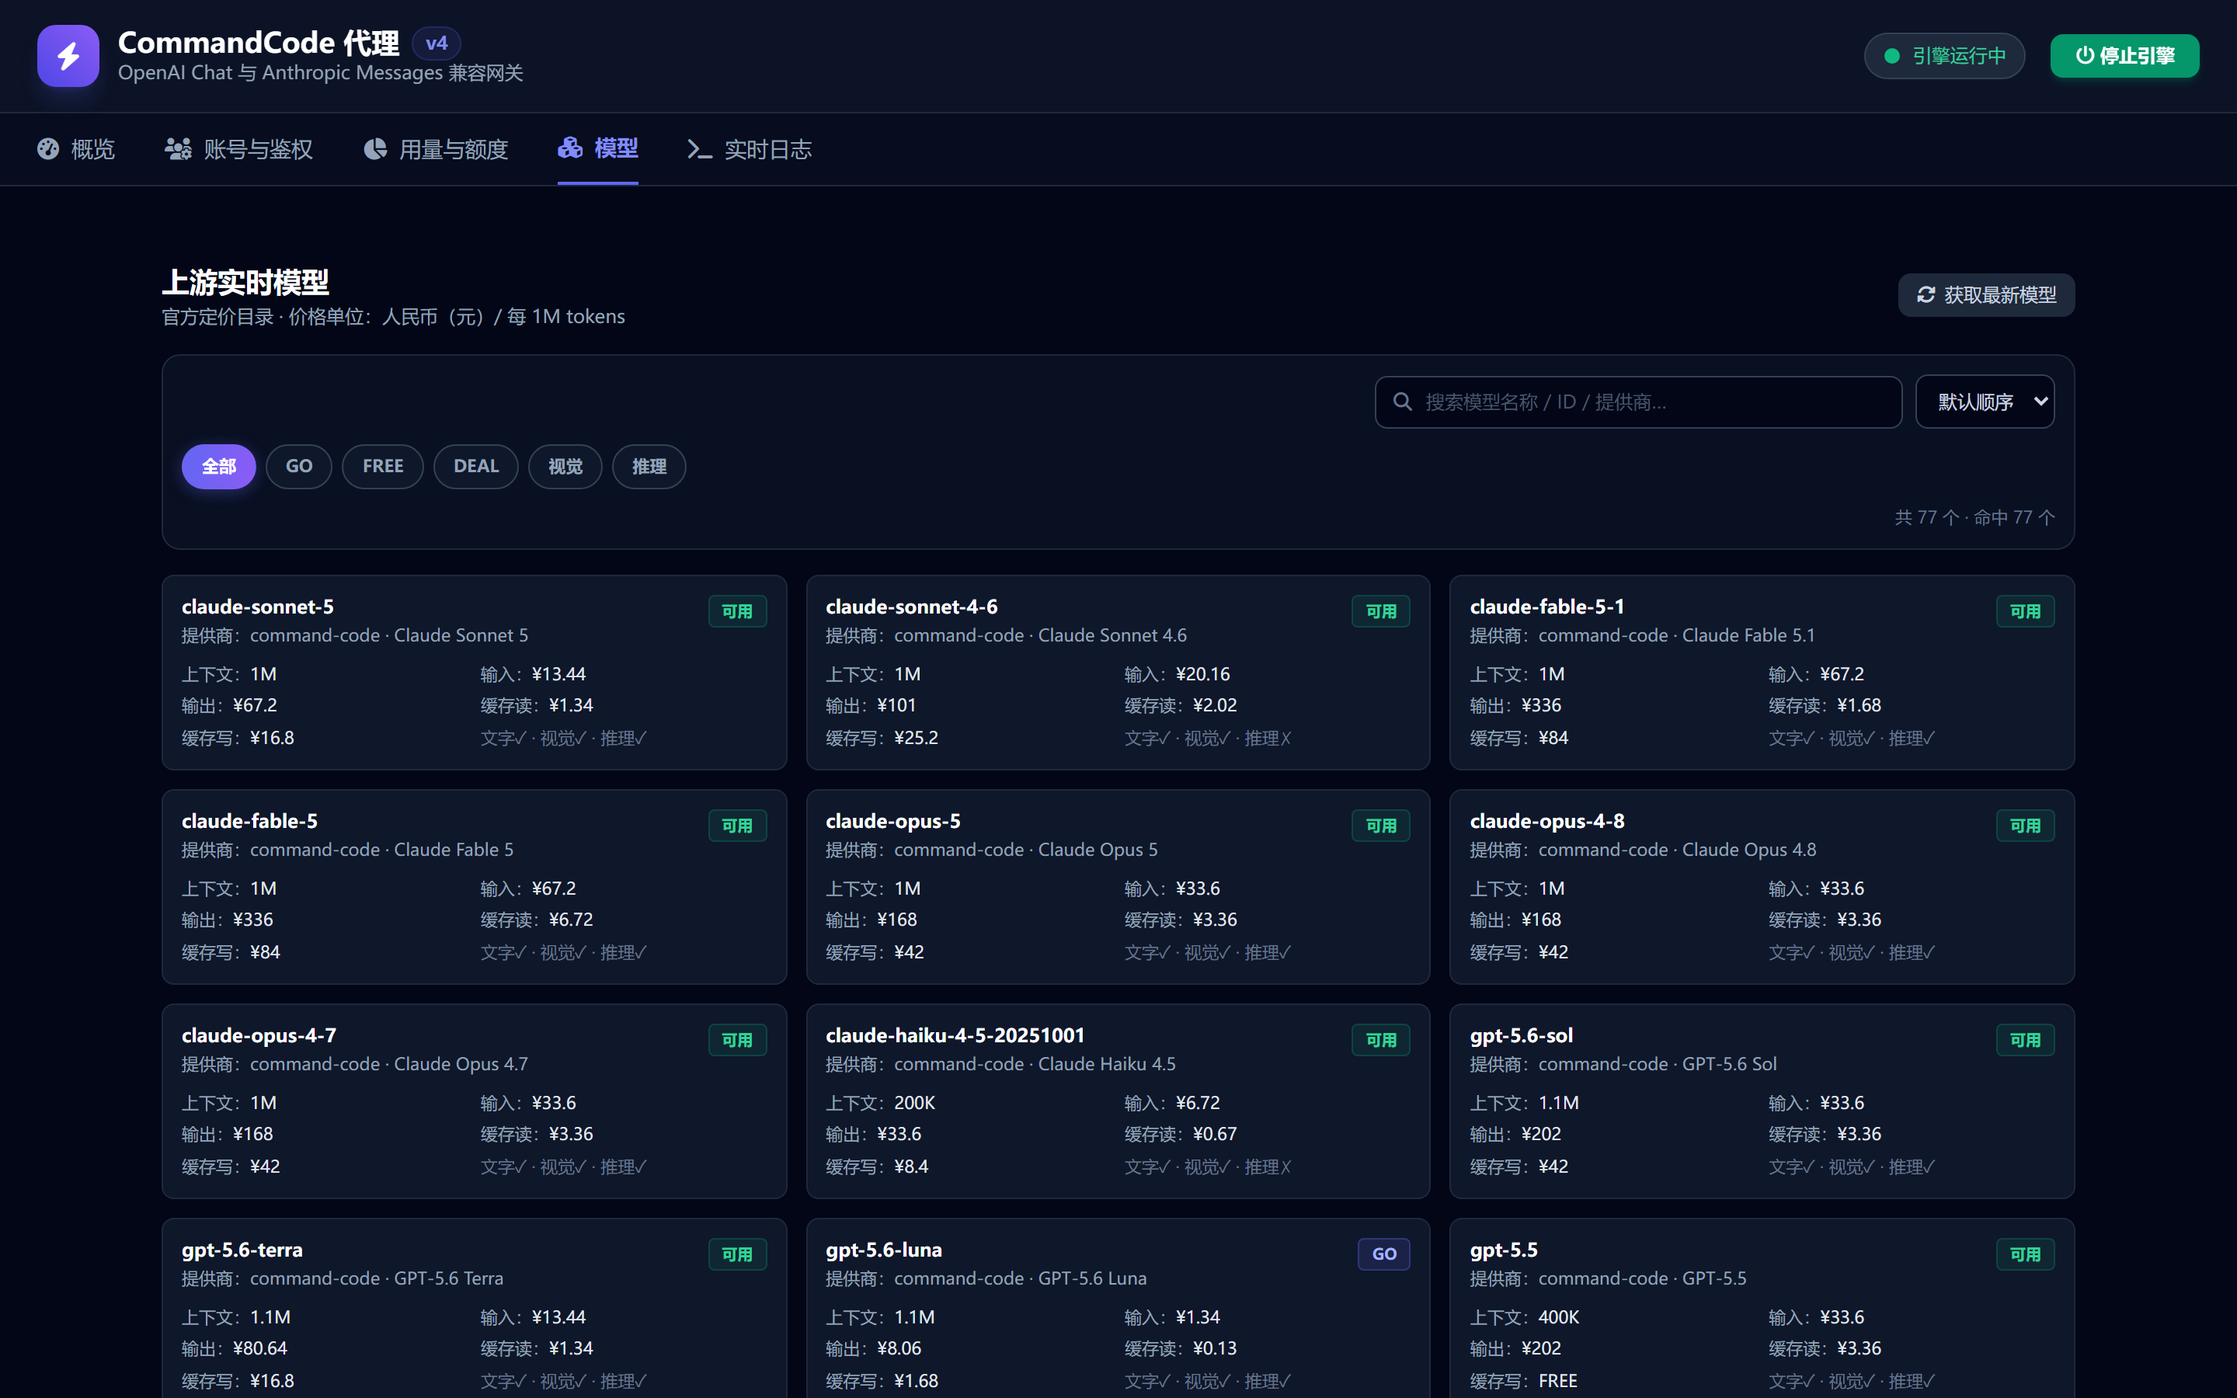
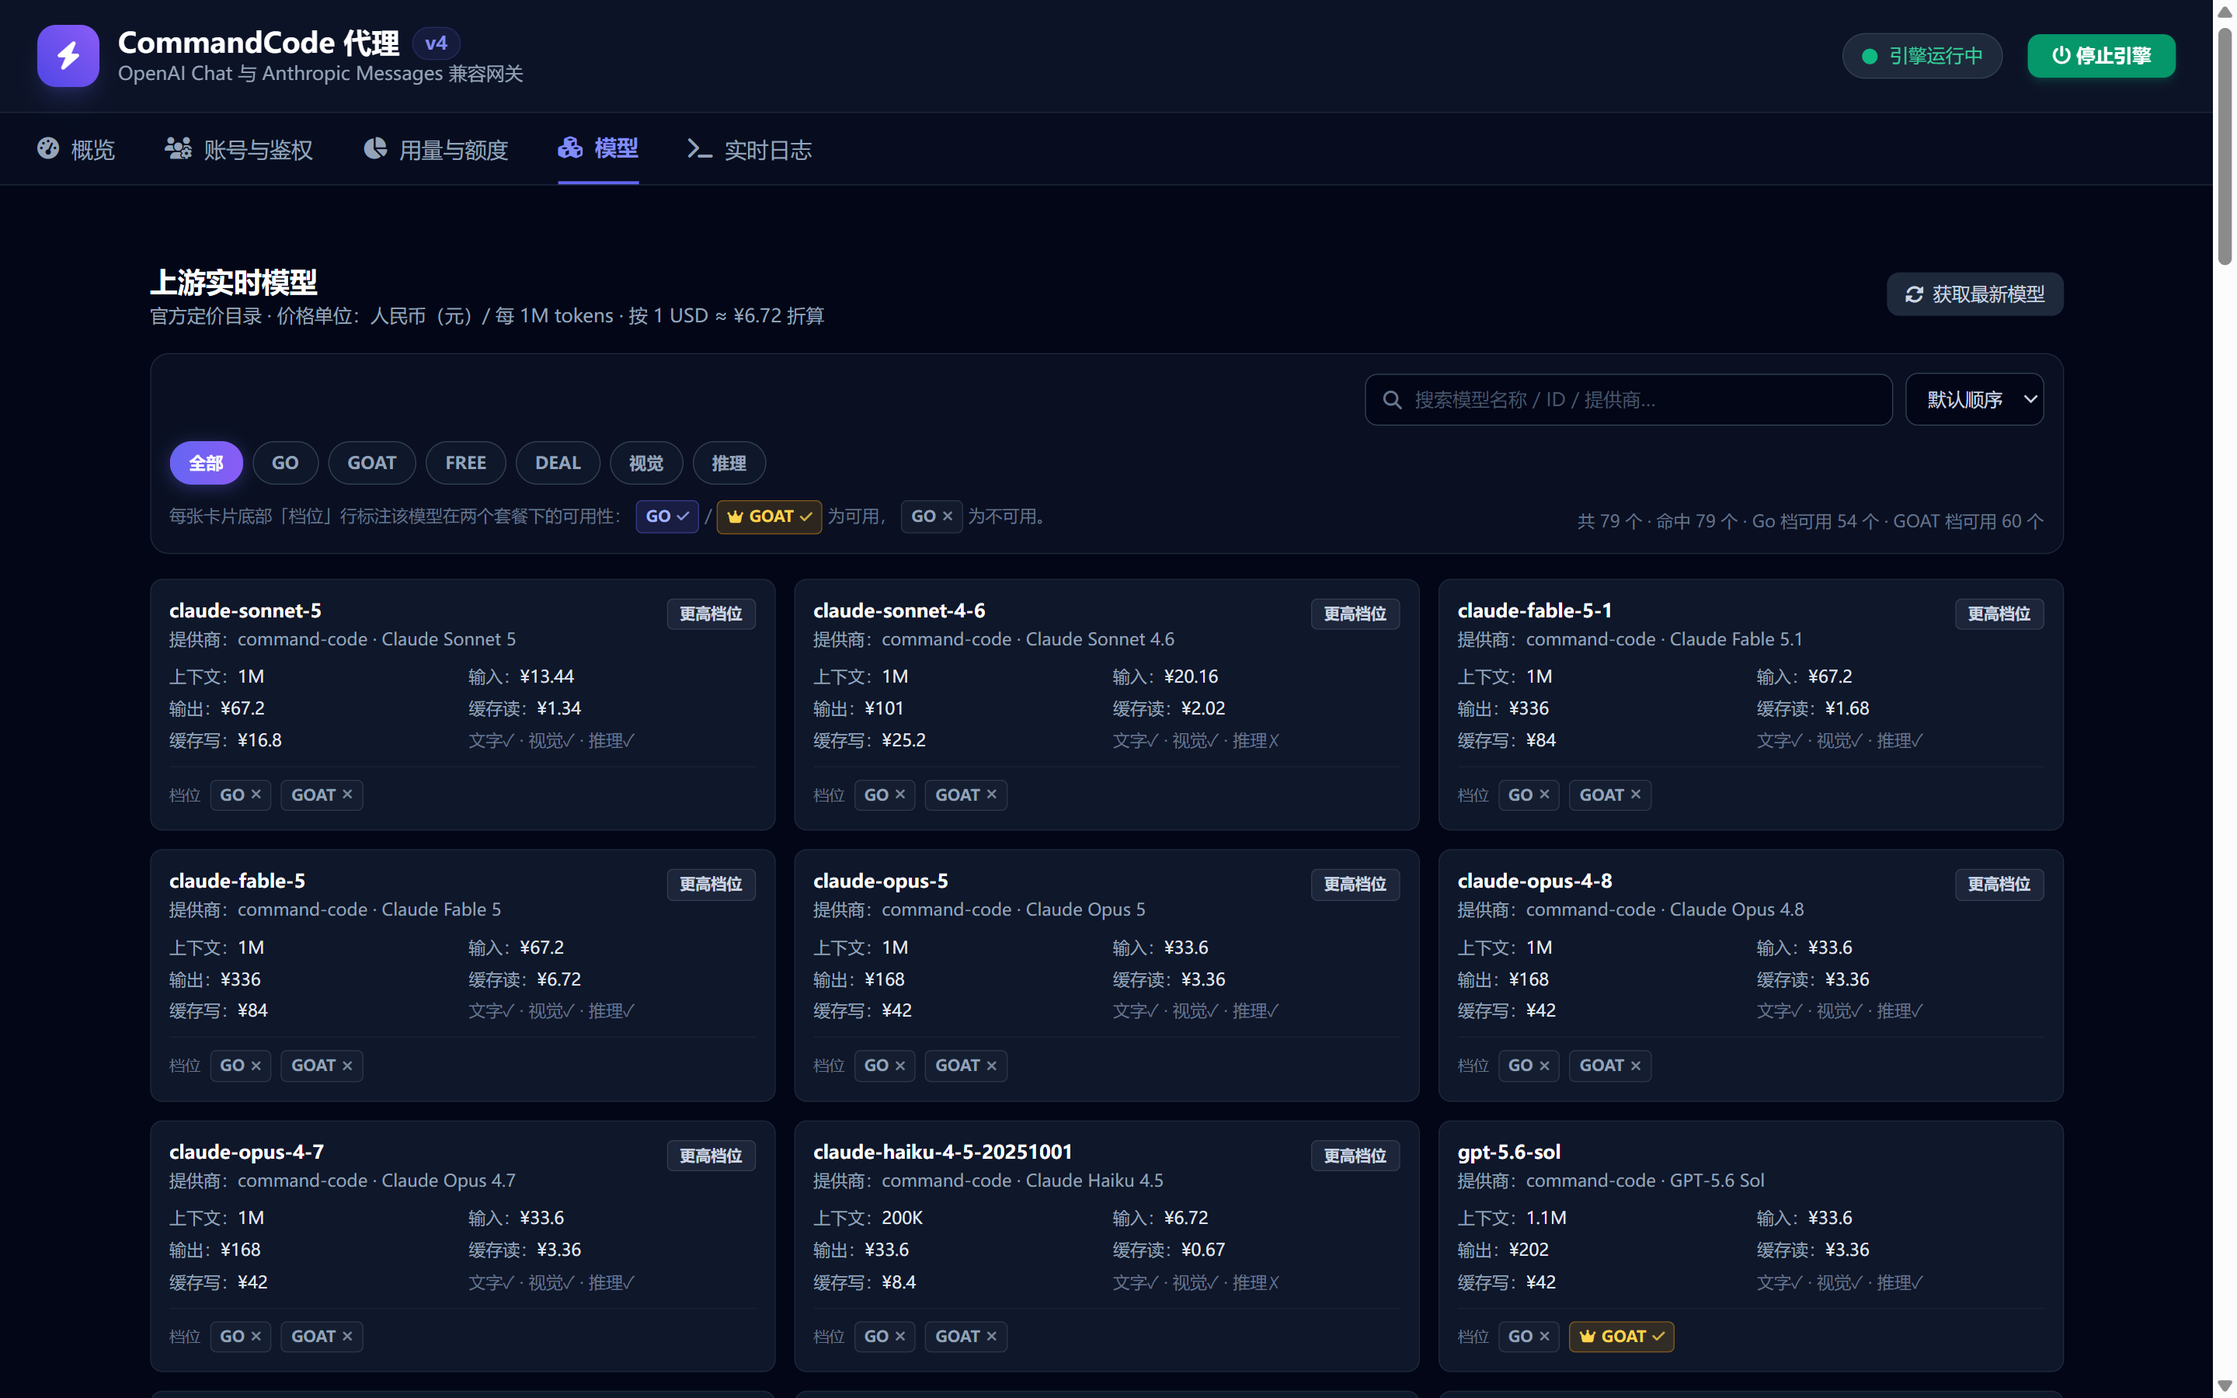
feat(ui): 模型卡片分开标注 Go / GOAT 档位可用性
卡片头部此前只看压扁的 onGoPlan（= availability['individual-go']），
GOAT 独有的 6 个模型（gpt-5.6-sol、xai/grok-4.6、google/gemini-3.7-flash、
google/gemini-3.8-flash、meta/muse-spark-1.2/1.3）与其它模型一样只显示
中性的「可用」，无法区分。

- 每张卡片底部新增「档位」行：GO / GOAT 两枚药丸始终占位，可用为实心
  强调色 + ✓（GO 靛蓝、GOAT 金色带皇冠），不可用为灰底 + ✗；固定占位
  让卡片等高、整列对齐，便于纵向比较。
- 判定改读完整 availability（新增 isPlanOn），仅在整表缺失时回退 onGoPlan。
- 两档都不含的 19 个模型改标「更高档位」，悬停给出实际可用档位清单。
- 筛选条新增 GOAT 标签；计数扩为 Go/GOAT 各自可用数；补一行图例。
- 不可用药丸用 slate-400（对比度约 5.3:1）替代偏暗的 slate-500。
- README 中英双语同步；docs/screenshots/dashboard-models.png 重拍。

测试：新增 dashboard-spa 回归断言；全量 237 项通过，tsc --noEmit 无错误；
Chromium 实机验证 79 卡 ×2 药丸、GO 命中 54 / GOAT 命中 60 与目录一致。

diff --git a/public/index.html b/public/index.html
@@ -317,12 +317,23 @@
     <div class="flex items-center gap-1.5 flex-wrap" id="modelTagRow">
       <button class="mfilter-chip on" data-tag="all">全部</button>
       <button class="mfilter-chip" data-tag="go">GO</button>
+      <button class="mfilter-chip" data-tag="goat">GOAT</button>
       <button class="mfilter-chip" data-tag="free">FREE</button>
       <button class="mfilter-chip" data-tag="deal">DEAL</button>
       <button class="mfilter-chip" data-tag="vision">视觉</button>
       <button class="mfilter-chip" data-tag="reason">推理</button>
     </div>
-    <p id="modelsCount" class="text-[11px] text-slate-500 text-right"></p>
+    <div class="flex items-end justify-between gap-x-4 gap-y-1 flex-wrap">
+      <p class="text-[11px] text-slate-500 leading-relaxed">
+        每张卡片底部「档位」行标注该模型在两个套餐下的可用性：
+        <span class="inline-flex items-center gap-1 text-[10px] px-1.5 py-0.5 rounded border font-semibold bg-indigo-500/15 text-indigo-300 border-indigo-500/40">GO<i class="fa-solid fa-check text-[9px] opacity-80"></i></span>
+        / <span class="inline-flex items-center gap-1 text-[10px] px-1.5 py-0.5 rounded border font-semibold bg-amber-500/15 text-amber-300 border-amber-500/40"><i class="fa-solid fa-crown text-[9px]"></i>GOAT<i class="fa-solid fa-check text-[9px] opacity-80"></i></span>
+        为可用，
+        <span class="inline-flex items-center gap-1 text-[10px] px-1.5 py-0.5 rounded border font-semibold bg-slate-800/40 text-slate-400 border-slate-700/70">GO<i class="fa-solid fa-xmark text-[9px] opacity-80"></i></span>
+        为不可用。
+      </p>
+      <p id="modelsCount" class="text-[11px] text-slate-500 text-right"></p>
+    </div>
   </div>
   <div id="modelsList" class="grid grid-cols-1 md:grid-cols-3 gap-3"></div>
 </section>
@@ -635,9 +646,43 @@ let allModelsCache = [];
 let modelTagFilter = 'all';
 let modelSortMode = 'default';
 let modelQueryTimer = null;
+// 档位键名与显示名，需与 src/utils/plans.ts 的 PLAN_TIERS 保持一致。
+const PLAN_LABELS = {
+  'individual-free': 'Free', 'individual-go': 'Go', 'individual-goat': 'GOAT',
+  'individual-pro': 'Pro', 'individual-pro-v1': 'Pro (v1)', 'individual-provider': 'Provider',
+  'individual-max': 'Max', 'individual-ultra': 'Ultra', 'teams-pro': 'Team Pro',
+};
+// 判定「档位可用」只看该档位自己的布尔值；availability 缺失时退回旧的 onGoPlan。
+function isPlanOn(m, key) {
+  const a = m && m.availability;
+  if (a && Object.keys(a).length) return a[key] === true;
+  return key === 'individual-go' ? !!m.onGoPlan : false;
+}
+function higherPlanNames(avail) {
+  return ['individual-pro', 'individual-pro-v1', 'individual-provider', 'individual-max', 'individual-ultra', 'teams-pro']
+    .filter(k => avail[k] === true).map(k => PLAN_LABELS[k] || k);
+}
+const BADGE_TONES = {
+  rose: 'bg-rose-500/15 text-rose-300 border-rose-500/30',
+  amber: 'bg-amber-500/15 text-amber-300 border-amber-500/30',
+  slate: 'bg-slate-500/15 text-slate-300 border-slate-500/30',
+};
+function badge(text, tone, title) {
+  return '<span class="text-[10px] px-2 py-0.5 rounded border font-semibold ' + BADGE_TONES[tone] + '"' +
+    (title ? ' title="' + esc(title) + '"' : '') + '>' + text + '</span>';
+}
+// 档位药丸：可用=实心强调色，不可用=灰底。两枚固定占位，卡片高度一致，
+// 整列纵向对齐后即可一眼比较 GO / GOAT 的差别。
+function planPill(key, label, on, onTone) {
+  const cls = on ? onTone : 'bg-slate-800/40 text-slate-400 border-slate-700/70';
+  return '<span class="inline-flex items-center gap-1 text-[10px] px-1.5 py-0.5 rounded border font-semibold ' + cls +
+    '" title="' + (PLAN_LABELS[key] || key) + ' 档位：' + (on ? '可用' : '不可用') + '">' +
+    label + '<i class="fa-solid ' + (on ? 'fa-check' : 'fa-xmark') + ' text-[9px] opacity-80"></i></span>';
+}
 function modelMatchesTag(m, tag) {
   const caps = m.caps || {};
-  if (tag === 'go') return !!m.onGoPlan;
+  if (tag === 'go') return isPlanOn(m, 'individual-go');
+  if (tag === 'goat') return isPlanOn(m, 'individual-goat');
   if (tag === 'free') return !!(m.deal && m.deal.free);
   if (tag === 'deal') return !!(m.deal && m.deal.discountPercent);
   if (tag === 'vision') return !!(caps.vision || m.supports_vision);
@@ -678,7 +723,12 @@ function applyModelFilter() {
   if (clearBtn) clearBtn.classList.toggle('hidden', !q);
   const filtered = sortModels(allModelsCache.filter(m => modelMatchesTag(m, modelTagFilter) && modelMatchesQuery(m, q)));
   const meta = document.getElementById('modelsCount');
-  if (meta) meta.innerText = '共 ' + allModelsCache.length + ' 个 · 命中 ' + filtered.length + ' 个';
+  if (meta) {
+    const goCount = allModelsCache.filter(m => isPlanOn(m, 'individual-go')).length;
+    const goatCount = allModelsCache.filter(m => isPlanOn(m, 'individual-goat')).length;
+    meta.innerText = '共 ' + allModelsCache.length + ' 个 · 命中 ' + filtered.length +
+      ' 个 · Go 档可用 ' + goCount + ' 个 · GOAT 档可用 ' + goatCount + ' 个';
+  }
   const c = document.getElementById('modelsList');
   if (!filtered.length) {
     c.innerHTML = '<div class="col-span-full text-center py-12 text-slate-500 text-xs"><i class="fa-solid fa-magnifying-glass text-2xl mb-3 block text-slate-600"></i>没有匹配的模型，换个关键词或标签试试</div>';
@@ -687,11 +737,17 @@ function applyModelFilter() {
   c.innerHTML = filtered.map(m => {
     const p = m.pricing || {};
     const caps = m.caps || {};
+    const avail = m.availability || {};
+    const goOn = isPlanOn(m, 'individual-go');
+    const goatOn = isPlanOn(m, 'individual-goat');
+    const higher = higherPlanNames(avail);
     let tags = '';
-    if (m.onGoPlan) tags += '<span class="text-[10px] px-2 py-0.5 rounded bg-indigo-500/15 text-indigo-300 border border-indigo-500/30 font-semibold">GO</span>';
-    if (m.deal && m.deal.free) tags += '<span class="text-[10px] px-2 py-0.5 rounded bg-rose-500/15 text-rose-300 border border-rose-500/30 font-semibold">FREE</span>';
-    else if (m.deal && m.deal.discountPercent) tags += '<span class="text-[10px] px-2 py-0.5 rounded bg-amber-500/15 text-amber-300 border border-amber-500/30 font-semibold">DEAL ' + m.deal.discountPercent + '%</span>';
-    if (!tags) tags = '<span class="text-[10px] px-2 py-0.5 rounded bg-emerald-500/10 text-emerald-400 border border-emerald-500/20 font-semibold">可用</span>';
+    if (m.deal && m.deal.free) tags += badge('FREE', 'rose');
+    else if (m.deal && m.deal.discountPercent) tags += badge('DEAL ' + m.deal.discountPercent + '%', 'amber');
+    // GO/GOAT 都不可用时，用一枚中性徽章说明它属于更高的付费档位，避免误读成"不可调用"。
+    if (!goOn && !goatOn && higher.length) {
+      tags += badge('更高档位', 'slate', '仅在这些档位可用：' + higher.join(' · '));
+    }
     const capsStr = '文字' + (caps.text ? '✓' : '✗') + ' · 视觉' + ((caps.vision || m.supports_vision) ? '✓' : '✗') + ' · 推理' + (caps.reasoning ? '✓' : '✗');
     return '<div class="p-3 bg-slate-900 border border-slate-800 rounded-lg hover:border-indigo-500/40 transition">' +
       '<div class="flex items-start justify-between gap-2">' +
@@ -706,6 +762,11 @@ function applyModelFilter() {
         '<span>缓存读：<span class="text-slate-200">' + fmtPrice(p.cacheRead) + '</span></span>' +
         '<span>缓存写：<span class="text-slate-200">' + fmtPrice(p.cacheWrite) + '</span></span>' +
         '<span class="text-slate-500">' + capsStr + '</span>' +
+      '</div>' +
+      '<div class="mt-2 pt-2 border-t border-slate-800/70 flex items-center gap-1.5">' +
+        '<span class="text-[10px] text-slate-500">档位</span>' +
+        planPill('individual-go', 'GO', goOn, 'bg-indigo-500/15 text-indigo-300 border-indigo-500/40') +
+        planPill('individual-goat', goatOn ? '<i class="fa-solid fa-crown text-[9px]"></i>GOAT' : 'GOAT', goatOn, 'bg-amber-500/15 text-amber-300 border-amber-500/40') +
       '</div>' +
     '</div>';
   }).join('');

diff --git a/tests/dashboard-spa.test.ts b/tests/dashboard-spa.test.ts
@@ -40,4 +40,15 @@ describe('dashboard SPA (public/index.html)', () => {
   it('does not reference external CDNs (assets are localized)', () => {
     expect(html).not.toMatch(/https?:\/\/cdn\.|https?:\/\/cdnjs\.cloudflare\.com|https?:\/\/cdn\.jsdelivr\.net/);
   });
+
+  // 模型卡片必须能把 GO 与 GOAT 两个档位分开标注：只看 onGoPlan 会让
+  // GOAT-only 的模型（如 gpt-5.6-sol）显示成没有档位区别的「可用」。
+  it('renders both GO and GOAT plan badges from the per-plan availability map', () => {
+    expect(html).toMatch(/data-tag="goat"/);
+    expect(html).toMatch(/isPlanOn\(m, 'individual-go'\)/);
+    expect(html).toMatch(/isPlanOn\(m, 'individual-goat'\)/);
+    expect(html).toMatch(/planPill\('individual-go'/);
+    expect(html).toMatch(/planPill\('individual-goat'/);
+    expect(html).not.toMatch(/if \(m\.onGoPlan\) tags \+=/);
+  });
 });

diff --git a/CHANGELOG.md b/CHANGELOG.md
@@ -2,6 +2,22 @@
 
 所有主要版本更新都记录在此文件。
 
+## [4.13.0] - 2026-09-18
+
+### 改进
+- **模型卡片现在把 Go 与 GOAT 两个档位分开标注** — 此前卡片头部只判断压扁后的 `onGoPlan`（即 `availability['individual-go']`），GOAT 独有的模型因此完全没有档位标识：`gpt-5.6-sol`、`xai/grok-4.6`、`google/gemini-3.7-flash`、`google/gemini-3.8-flash`、`meta/muse-spark-1.2`、`meta/muse-spark-1.3` 这 6 个模型在 Go 档不可用、只在 GOAT 可用，却和其它模型一样只显示一枚中性的「可用」，无法区分。
+  - 每张卡片底部新增固定的「档位」行：`GO`（靛蓝）与 `GOAT`（金色 + 皇冠）两枚药丸**始终占位**，可用为实心强调色 + ✓、不可用为灰底 + ✗。固定占位让卡片等高、整列纵向对齐，扫一眼即可比较两个档位，而不是"只在可用时才冒出一枚标签"。
+  - 判定改为读上游完整的 `availability` 映射（前端新增 `isPlanOn(m, key)`），仅在 `availability` 整体缺失时才回退到旧的 `onGoPlan`；档位键与显示名的映射（`PLAN_LABELS`）与 `src/utils/plans.ts` 的 `PLAN_TIERS` 保持一致。
+  - GO / GOAT 都不含的 19 个模型（含 claude-sonnet-5、claude-opus-5 等）不再显示笼统的「可用」，改标中性徽章「更高档位」，悬停可见其实际可用档位清单（如 `Pro · Pro (v1) · Provider · Max · Ultra · Team Pro`）。
+  - 筛选条新增 `GOAT` 标签（与原 `GO` 并列），两者均走 `isPlanOn`；结果计数扩为「共 N 个 · 命中 M 个 · Go 档可用 X 个 · GOAT 档可用 Y 个」，并在筛选条下补一行图例说明药丸读法。
+  - 可读性：不可用药丸文字用 `slate-400`（卡片底色上对比度约 5.3:1），而非更暗的 `slate-500`（约 3.2:1）——10px 字号下后者偏暗。
+- 版本号 `4.12.1` → `4.13.0`。README 中英双语「模型目录 / Dashboard」小节同步更新，`docs/screenshots/dashboard-models.png` 按新界面重拍（1440×900@2x）。
+
+### 测试
+- 新增 `dashboard-spa.test.ts` 一项回归：断言 `GOAT` 筛选标签、`isPlanOn(m, 'individual-goat')` 与两枚 `planPill` 均已接入，且旧的 `if (m.onGoPlan) tags +=` 渲染路径已移除。
+- 全量 **237 项通过**，`tsc --noEmit` 无错误。
+- 实机验证（Chromium，1440×900）：79 张卡片全部渲染出 2 枚档位药丸；`gpt-5.6-luna` = GO ✓/GOAT ✓、`gpt-5.6-sol` = GO ✗/GOAT ✓、`claude-sonnet-5` = 双 ✗ + 「更高档位」徽章；`GO` 筛选命中 54、`GOAT` 筛选命中 60，与目录数据一致；图例行不换行、与计数不重叠，药丸文字无溢出。
+
 ## [4.12.1] - 2026-09-17
 
 ### 修复

diff --git a/README.md b/README.md
@@ -48,7 +48,7 @@
 | ![控制台总览](./docs/screenshots/dashboard-overview.png) | ![模型目录](./docs/screenshots/dashboard-models.png) | ![账号与鉴权](./docs/screenshots/dashboard-accounts.png) |
 
 - **总览** — 一屏掌握运行状态：引擎启停、端口、运行时长、当前账号、绑定地址、鉴权开关、账号数与可用模型数；顶部一键切换引擎。
-- **模型目录** — 官方定价目录（上下文 / 输入 / 输出 / 缓存读 / 缓存写 / 能力 / Deal）实时刷新；支持关键词搜索、GO / FREE / DEAL / 视觉 / 推理标签筛选与多列排序。
+- **模型目录** — 官方定价目录（上下文 / 输入 / 输出 / 缓存读 / 缓存写 / 能力 / Deal）实时刷新；支持关键词搜索、GOAT / GO / FREE / DEAL / 视觉 / 推理标签筛选与多列排序；每张卡片底部的「档位」行固定标注该模型在 **Go** 与 **GOAT** 两个套餐下是否可用（GO 靛蓝、GOAT 金色带皇冠；不可用为灰底 ✗），两个档位都不含的模型另标「更高档位」并附可用档位清单。
 - **账号** — 浏览器 OAuth 登录或粘贴 Key；多账号管理与 5 小时额度轮换（≥90% 自动切换）；密钥一律**脱敏显示**。
 
 ---
@@ -310,6 +310,7 @@ Point any OpenAI-style client (Cursor, Continue, Aider, OpenWebUI, Hermes, your 
 
 **Dashboard & usage insight**
 
+- **Per-plan availability on every model card** — the badge row reads the upstream `availability` map instead of a single flattened Go flag, so each card states whether that model is usable on **Go** and on **GOAT** (GO indigo, GOAT gold with a crown; unavailable is a grey ✗). Models on neither plan are tagged *higher tiers* with the list of plans that do include them, and the filter row plus the result counter give Go/GOAT totals
 - Per-request session detail (tokens, cache hits, latency, cost, model, status) with daily trend, model doughnut and today/week/month cards; persisted to `~/.commandcode/usage-history.jsonl` (rotated at 20MB)
 - **Cost reconciled with the official bill** — prefers the authoritative `provider-metadata` amount (peak/off-peak and cache discounts included); local fallback prices cache read/write separately by time-of-day; estimates carry a `~` prefix
 - **Cache savings visualization** — how much cache hits saved versus full input price, and the multiple relative to billed cost
